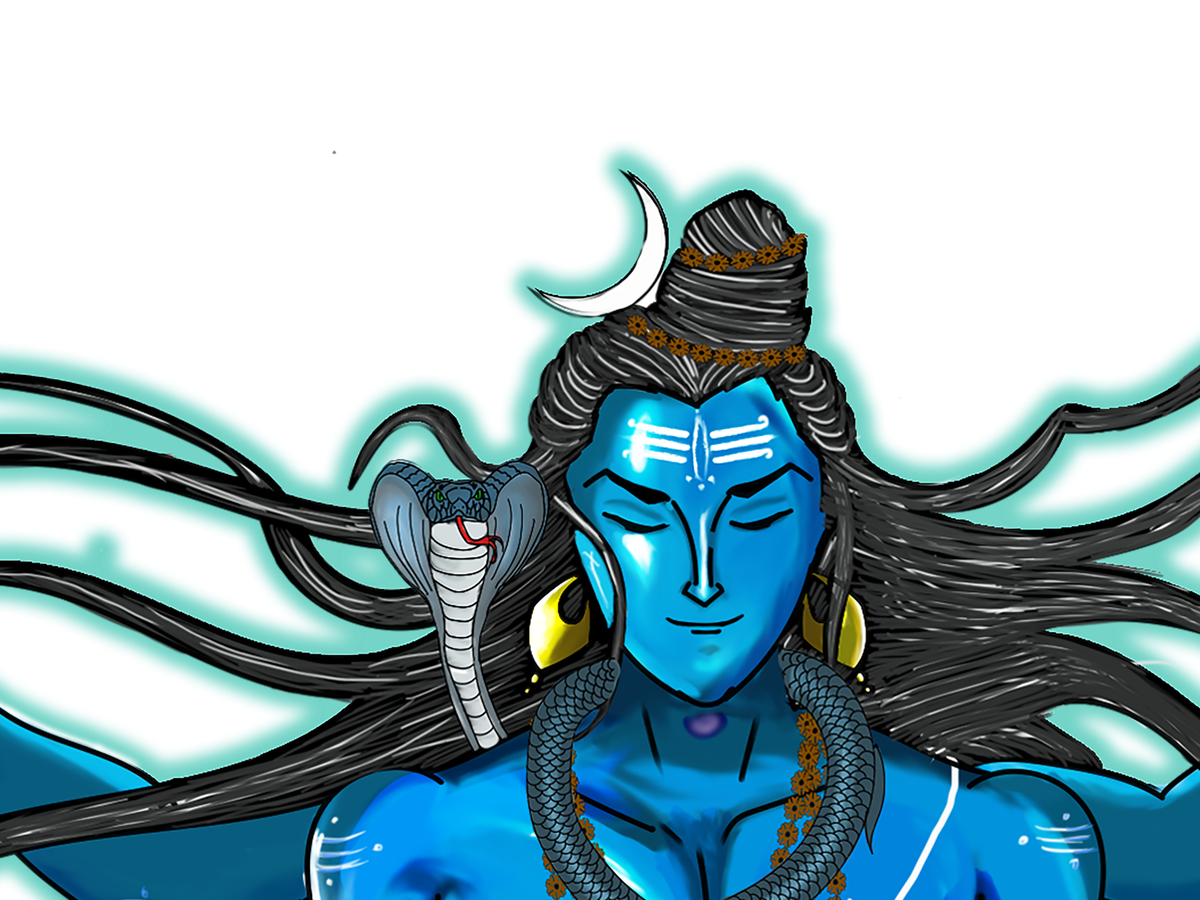
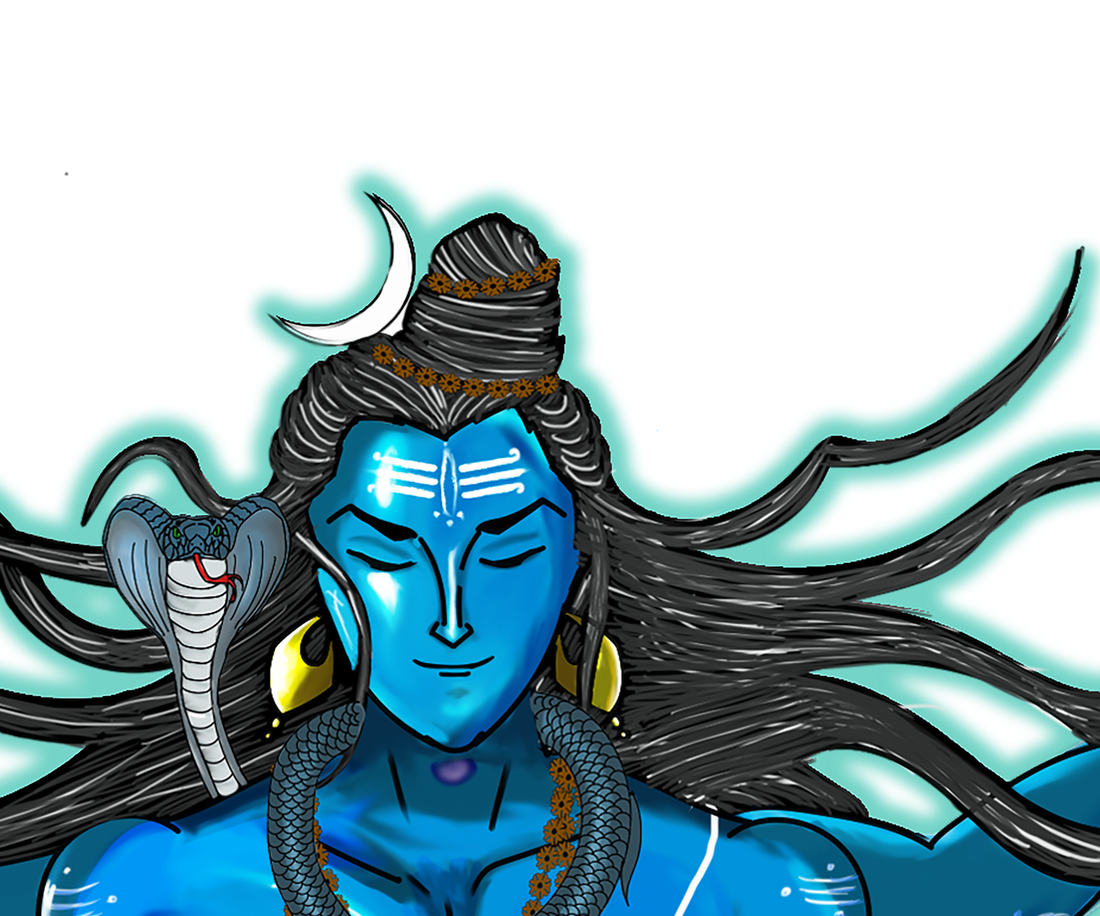
frontend: reframe Mahadev home image - no box, edge vignette
- tighter crop keeping the cobra beside the face
- enlarge the art and let it bleed; drop the hard-edged plate
- edge vignette fades every side into the page (no visible box), left
  side held darker so the name and CTA stay clean
- center the crop on mobile

diff --git a/frontend/src/pages/Home.module.css b/frontend/src/pages/Home.module.css
@@ -11,38 +11,43 @@
 /* --- right: cropped artwork (face + right hand) in its frame --- */
 .plate {
   position: absolute;
-  inset: 0 0 0 auto;
-  width: min(86%, 1200px);
+  inset: 0;
+  width: auto;
+  overflow: hidden;
   pointer-events: none;
 }
 
 .art {
   position: absolute;
-  right: -9%;
+  right: -4%;
   top: 50%;
   transform: translateY(-50%);
-  height: 118%;
+  height: 98%;
   width: auto;
   max-width: none;
-  filter: saturate(0.88) brightness(0.95);
+  filter: saturate(0.9) brightness(0.96);
 }
 
-/* dark overlay: flat tint + a left-to-right fade so the name and CTA
-   stay readable where they sit over the art */
+/* no box: an edge vignette fades every side of the art into the page,
+   with the left side held darker so the name and CTA stay clean */
 .tint {
   position: absolute;
   inset: 0;
   background:
+    radial-gradient(
+      ellipse 66% 80% at 74% 47%,
+      rgba(11, 10, 9, 0) 34%,
+      rgba(11, 10, 9, 0.5) 74%,
+      var(--bg) 100%
+    ),
     linear-gradient(
       to right,
       var(--bg) 0%,
-      var(--bg) 14%,
-      rgba(11, 10, 9, 0.92) 34%,
-      rgba(11, 10, 9, 0.66) 52%,
-      rgba(11, 10, 9, 0.4) 74%,
-      rgba(11, 10, 9, 0.36) 100%
+      var(--bg) 32%,
+      rgba(11, 10, 9, 0.34) 54%,
+      rgba(11, 10, 9, 0.24) 100%
     ),
-    rgba(11, 10, 9, 0.32);
+    rgba(11, 10, 9, 0.18);
 }
 
 /* --- left: signature + name --- */
@@ -150,10 +155,11 @@
   }
   .art {
     position: absolute;
-    right: 50%;
+    left: 50%;
     top: 0;
-    transform: translateX(24%);
-    height: 122%;
+    transform: translateX(-50%);
+    height: 108%;
+    width: auto;
     margin: 0;
   }
   .tint {
